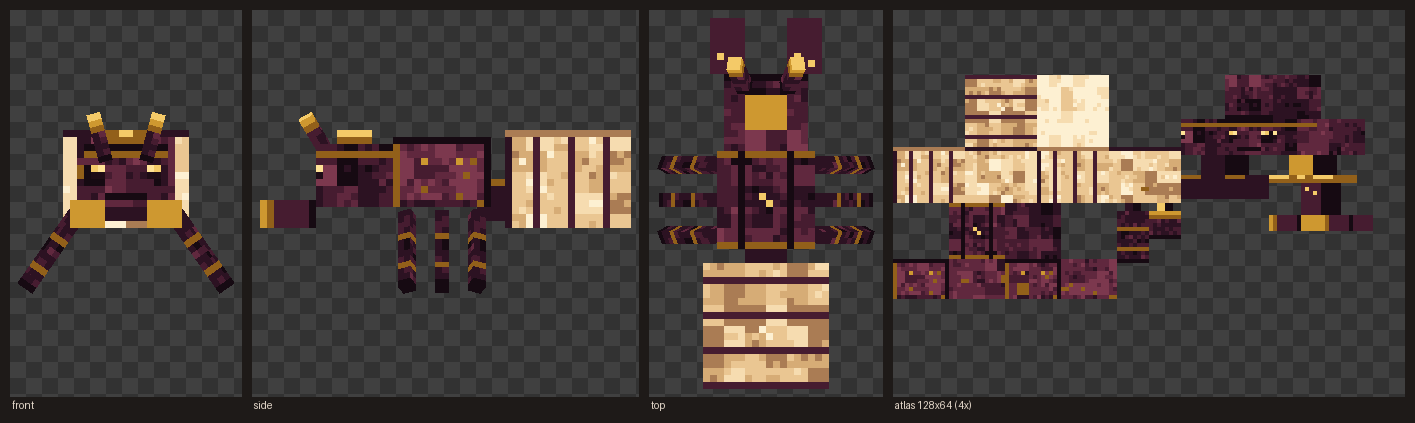
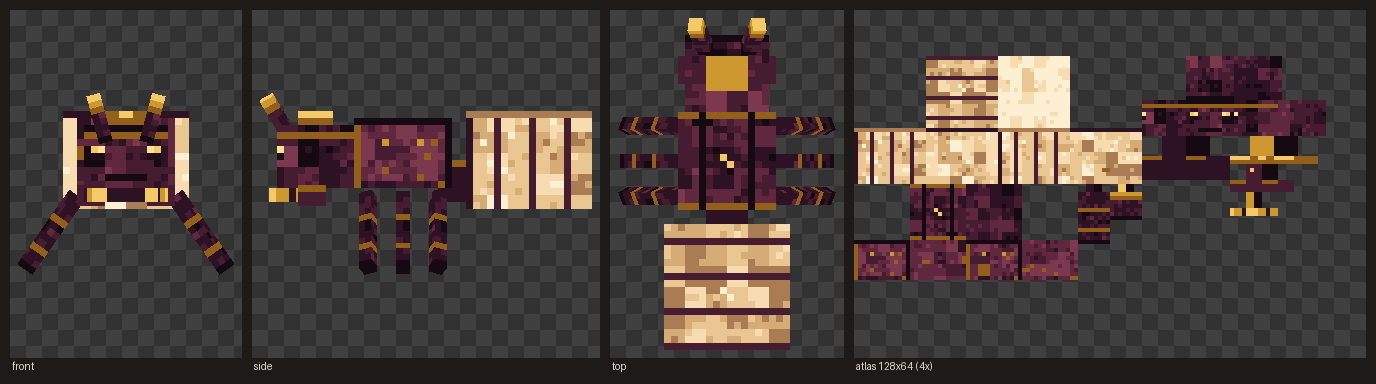
feat(client): queen mandibles, tamed antenna markers, larva UV fix
Owner feedback (play-test round 1, spec items 2-4), all sourced from
assets-src/models.py and committed together because it's a single generator
script -- splitting it across commits would mean hand-reconstructing patch
hunks, a needless risk for one file.

- Queen mandibles: one chunky 5x4x8 slab per side becomes two tapered
  segments (base 4x3x4, tip 2x2x4), both children of `head` in
  QueenAntModel.java to match this file's flat, absolute-pose part list. The
  tip curls toward the midline (QUEEN_MANDIBLE_TIP_ANGLE, ~20 degrees) for a
  pincer silhouette. Texture: plum base with a gold joint accent (matching
  the legs' motif), gold tip brightest at the true biting point.

- Tamed worker/soldier get their own texture atlas, distinguished by a
  royal-jelly gold antenna-tip marker (TAMED_ANTENNA_TIP) instead of each
  caste's wild tip colour -- paint_worker_ant/paint_soldier_ant grew an
  antenna_tip_color parameter rather than forking a second geometry spec, so
  wild output is provably unchanged (worker_ant.png/soldier_ant.png are
  byte-identical to before). TamedWorkerAntRenderer/TamedSoldierAntRenderer
  now point at tamed_worker_ant.png/tamed_soldier_ant.png.

- Larva "stray orange spots" on the side faces: mid/head/tail's west/east
  seam faces are only 2-3 texels deep, and the code painted a full-brightness
  L_LINE seam at BOTH ends of `mid` while head/tail each painted their own
  seam at the identical boundary from their side -- every junction marked
[…]

Changed region(s): [[0.0, 0.0, 1.0, 0.9688]]

diff --git a/assets-src/models.py b/assets-src/models.py
@@ -204,8 +204,9 @@ LARVA = {
 # Atlas is 128x64. Box-UV packing, checked to fit:
 #   gaster   (0,  0)  72x32     thorax  (0, 32)  56x24
 #   head     (72, 0)  46x20     petiole (72,20)  22x11
-#   crest    (94,20)  22x7      mandible(94,27)  26x12
-#   leg      (56,32)   8x15     antenna (64,32)   8x9
+#   crest    (94,20)  22x7      mandible_base (94,27) 16x7
+#   mandible_tip (94,34) 12x6   leg      (56,32)   8x15
+#   antenna  (64,32)   8x9
 #
 # Ground is y=24; her back sits at y=0, i.e. 24px = 1.5 blocks tall, under the
 # 1.8-block hitbox. Feet land at 12 + 13*cos(0.6109) = 22.7, so the splay and
@@ -213,6 +214,18 @@ LARVA = {
 QUEEN_REST_LEG_Z = 0.6109       # 35 degrees off vertical
 QUEEN_REST_LEG_Y_FRONT = -0.4363
 QUEEN_REST_LEG_Y_HIND = 0.4363
+
+# Play-test round 1, spec item 2: the mandibles read "too chunky" -- reworked from one
+# 5x4x8 block per side into two tapered segments (base 4x3x4, tip 2x2x4) so the jaw
+# actually narrows toward the point instead of staying a uniform slab. The tip also
+# curls toward the midline (yRot) for a pincer silhouette; sign is empirical -- verified
+# by rendering the preview and checking the tips converge rather than splay. Both
+# segments stay children of `head`, matching the flat single-level part list every other
+# model here uses (see the module docstring): the base's own rest rotation is the
+# identity, so nesting the tip under `head` directly instead of under the base produces
+# an identical absolute pose while keeping this file's "poses are absolute" invariant
+# intact -- no hierarchical composition to hand-simulate.
+QUEEN_MANDIBLE_TIP_ANGLE = 0.3491   # ~20 degrees
 
 QUEEN_ANT = {
     "name": "queen_ant",
@@ -226,11 +239,19 @@ QUEEN_ANT = {
             {"off": (72, 0), "box": (-6, -4.5, -11, 12, 9, 11)},        # skull
             {"off": (94, 20), "box": (-3, -6.5, -8, 6, 2, 5)},          # crest
         ]},
-        {"name": "mandible_r", "pose": (-3, 12, -18), "cubes": [
-            {"off": (94, 27), "box": (-5, -2, -8, 5, 4, 8)},
+        {"name": "mandible_r_base", "pose": (-3, 12, -11), "cubes": [
+            {"off": (94, 27), "box": (-4, -1.5, -4, 4, 3, 4)},
         ]},
-        {"name": "mandible_l", "pose": (3, 12, -18), "cubes": [
-            {"off": (94, 27), "box": (0, -2, -8, 5, 4, 8)},
+        {"name": "mandible_r_tip", "pose": (-5, 12, -15),
+         "rot": (0, -QUEEN_MANDIBLE_TIP_ANGLE, 0), "cubes": [
+            {"off": (94, 34), "box": (-1, -1, -4, 2, 2, 4)},
+        ]},
+        {"name": "mandible_l_base", "pose": (3, 12, -11), "cubes": [
+            {"off": (94, 27), "box": (0, -1.5, -4, 4, 3, 4)},
+        ]},
+        {"name": "mandible_l_tip", "pose": (5, 12, -15),
+         "rot": (0, QUEEN_MANDIBLE_TIP_ANGLE, 0), "cubes": [
+            {"off": (94, 34), "box": (-1, -1, -4, 2, 2, 4)},
         ]},
         {"name": "antenna_r", "pose": (-3, 4, -16),
          "rot": (REST_ANT_X, 0, -REST_ANT_Z), "cubes": [
@@ -311,6 +332,13 @@ JAW_DARK = (108, 70, 32, 255)
 
 ANTENNA_TIP = (232, 160, 64, 255)
 
+# Play-test round 1, spec item 3: "give tamed worker and tamed soldier their OWN texture
+# files distinguished by a clearly visible colored antenna-TIP marker." Royal-jelly gold
+# -- brighter and more yellow than either wild tip shade above and below (worker's warm
+# amber ANTENNA_TIP, soldier's redder S_ANTENNA_TIP further down), so it reads as a
+# distinct marker rather than a shade variant of the same hue at gameplay distance.
+TAMED_ANTENNA_TIP = (255, 214, 64, 255)
+
 BODY_PAL = [CHITIN_DARK, CHITIN_BASE, CHITIN_MID, CHITIN_LIGHT, CHITIN_PALE]
 BACK_PAL = [CHITIN_DARKEST, CHITIN_DARK, CHITIN_BASE, CHITIN_MID, CHITIN_LIGHT]
 BELLY_PAL = [BELLY_DARK, BELLY, BELLY, BELLY_LIGHT, BELLY_LIGHT]
@@ -366,6 +394,14 @@ L_SHADE = (222, 204, 174, 255)
 L_DARK = (198, 178, 146, 255)
 
 L_LINE = (222, 158, 70, 255)
+# Play-test round 1, spec item 4: "stray orange spots on the larva's SIDE faces." The
+# west/east faces at the mid/head/tail joints are only 2-3 texels deep, so a full-
+# strength L_LINE vband there covers 1/2 to 2/3 of the whole face -- nowhere near the
+# "faint" this palette's own comment above promises, and reads as an orange blotch
+# rather than a seam. L_LINE_FAINT is L_LINE blended 35% into L_BASE (the segment's own
+# base tone) instead of painted at full saturation, so a segment boundary is still
+# visible without dominating a face this small.
+L_LINE_FAINT = (232, 201, 152, 255)
 L_EYE = (60, 40, 24, 255)
 
 L_BODY_PAL = [L_SHADE, L_BASE, L_LIGHT, L_LIGHT, L_PALE]
@@ -461,7 +497,7 @@ def vband(draw, rect, x, color):
         draw.rectangle([x0 + x, y0, x0 + x, y1 - 1], fill=color)
 
 
-def paint_worker_ant():
+def paint_worker_ant(antenna_tip_color=ANTENNA_TIP):
     img = Image.new("RGBA", (TEX, TEX), (0, 0, 0, 0))
     d = ImageDraw.Draw(img)
     parts = {p["name"]: p for p in WORKER_ANT["parts"]}
@@ -548,12 +584,14 @@ def paint_worker_ant():
     px(d, r["top"], 0, 1, JAW_DARK)
 
     # ---- antennae: dark shaft, amber tip (min-Y end is the tip) -----------
+    # `antenna_tip_color` is the tamed-caste hook (spec item 3) -- wild callers don't
+    # pass it and get the amber above.
     r = rects(parts["antenna_r"]["cubes"][0])
     for f in ("west", "north", "east", "south"):
         noise_rect(d, r[f], "antenna:" + f, LIMB_PAL, cell=1)
-        hband(d, r[f], 0, ANTENNA_TIP)
+        hband(d, r[f], 0, antenna_tip_color)
         hband(d, r[f], 2, CHITIN_DARKEST)       # base joint
-    fill(d, r["top"], ANTENNA_TIP)
+    fill(d, r["top"], antenna_tip_color)
     fill(d, r["bottom"], CHITIN_DARKEST)
 
     # ---- legs: dark chitin, lit joint band, near-black foot ---------------
@@ -568,7 +606,7 @@ def paint_worker_ant():
     return img
 
 
-def paint_soldier_ant():
+def paint_soldier_ant(antenna_tip_color=S_ANTENNA_TIP):
     img = Image.new("RGBA", (SOLDIER_TEX_W, SOLDIER_TEX_H), (0, 0, 0, 0))
     d = ImageDraw.Draw(img)
     parts = {p["name"]: p for p in SOLDIER_ANT["parts"]}
@@ -657,12 +695,14 @@ def paint_soldier_ant():
     px(d, r["top"], 0, 1, S_JAW_DARK)
 
     # ---- antennae: dark shaft, redder tip (min-Y end is the tip) -----------
+    # `antenna_tip_color` is the tamed-caste hook (spec item 3) -- wild callers don't
+    # pass it and get the maroon-red S_ANTENNA_TIP above.
     r = rects(parts["antenna_r"]["cubes"][0])
     for f in ("west", "north", "east", "south"):
         noise_rect(d, r[f], "antenna:" + f, S_LIMB_PAL, cell=1, namespace=NS)
-        hband(d, r[f], 0, S_ANTENNA_TIP)
+        hband(d, r[f], 0, antenna_tip_color)
         hband(d, r[f], 2, S_CHITIN_DARKEST)     # base joint
-    fill(d, r["top"], S_ANTENNA_TIP)
+    fill(d, r["top"], antenna_tip_color)
     fill(d, r["bottom"], S_CHITIN_DARKEST)
 
     # ---- legs: dark chitin, lit joint band, near-black foot ---------------
@@ -688,15 +728,19 @@ def paint_larva():
         _, _, _, w, h, dd = cube["box"]
         return face_rects(u, v, w, h, dd)
 
-    # ---- mid: the widest segment, pale cream with a faint seam each end ----
+    # ---- mid: the widest segment, pale cream -------------------------------
+    # Play-test round 1, spec item 4: mid used to paint its OWN seam at both its front
+    # (against head) and back (against tail) edge, on top of head's and tail's each
+    # painting their own seam at that identical boundary -- every junction got marked
+    # twice. On a face this thin (3 texels wide) two full-brightness L_LINE columns left
+    # only the single middle column unpainted, which is what read as "stray orange
+    # spots" rather than a seam. Mid no longer paints a seam of its own; the boundary is
+    # still marked once, by head/tail below, in the softened L_LINE_FAINT.
     r = rects(parts["mid"]["cubes"][0])
     for f in ("west", "north", "east", "south"):
         noise_rect(d, r[f], "mid:" + f, L_BODY_PAL, namespace=NS, jitter=0.14, cell=1)
     noise_rect(d, r["top"], "mid:top", L_TOP_PAL, namespace=NS, jitter=0.14, cell=1)
     noise_rect(d, r["bottom"], "mid:bottom", L_BOTTOM_PAL, namespace=NS, jitter=0.14, cell=1)
-    for f in ("west", "east"):
-        vband(d, r[f], 0, L_LINE)               # seam against the head (front)
-        vband(d, r[f], 2, L_LINE)               # seam against the tail (back)
 
     # ---- head: tapered, carries the two eye dots ---------------------------
     r = rects(parts["head"]["cubes"][0])
@@ -708,7 +752,7 @@ def paint_larva():
     px(d, n, 0, 1, L_EYE)
     px(d, n, 2, 1, L_EYE)
     for f in ("west", "east"):
-        vband(d, r[f], 1, L_LINE)               # seam against mid
+        vband(d, r[f], 1, L_LINE_FAINT)         # seam against mid
 
     # ---- tail: shorter and thinner, tapering down --------------------------
     r = rects(parts["tail"]["cubes"][0])
@@ -717,7 +761,7 @@ def paint_larva():
     noise_rect(d, r["top"], "tail:top", L_TOP_PAL, namespace=NS, jitter=0.14, cell=1)
     noise_rect(d, r["bottom"], "tail:bottom", L_BOTTOM_PAL, namespace=NS, jitter=0.14, cell=1)
     for f in ("west", "east"):
-        vband(d, r[f], 0, L_LINE)               # seam against mid
+        vband(d, r[f], 0, L_LINE_FAINT)         # seam against mid
 
     return img
 
@@ -817,18 +861,24 @@ def paint_queen_ant():
     px(d, r["north"], 2, 0, Q_GOLD_BRIGHT)
     px(d, r["north"], 3, 0, Q_GOLD_BRIGHT)
 
-    # ---- mandibles: plum base, gold biting tip -----------------------------
-    r = rects(parts["mandible_r"]["cubes"][0])
+    # ---- mandibles: plum base with a gold joint accent, then a slimmer gold ------
+    # ---- tip that carries the biting point (play-test round 1, spec item 2) ------
+    r = rects(parts["mandible_r_base"]["cubes"][0])
     for f in ("west", "north", "east", "south", "top"):
         fill(d, r[f], Q_PLUM_BASE)
     fill(d, r["bottom"], Q_PLUM_DARKEST)
-    fill(d, r["north"], Q_GOLD)                  # the -Z face is the biting tip
     for f in ("west", "east"):
-        vband(d, r[f], 0, Q_GOLD)
-        vband(d, r[f], 1, Q_GOLD_DEEP)
-        vband(d, r[f], 7, Q_PLUM_DARKEST)
+        hband(d, r[f], 0, Q_GOLD_DEEP)            # joint accent, same motif as the legs
     px(d, r["top"], 1, 1, Q_GOLD_BRIGHT)
-    px(d, r["top"], 3, 2, Q_GOLD_BRIGHT)
+
+    r = rects(parts["mandible_r_tip"]["cubes"][0])
+    for f in ("west", "north", "east", "south", "top"):
+        fill(d, r[f], Q_GOLD)
+    fill(d, r["bottom"], Q_PLUM_DARKEST)
+    fill(d, r["north"], Q_GOLD_BRIGHT)            # the -Z face is the true biting point
+    for f in ("west", "east"):
+        vband(d, r[f], 0, Q_GOLD_BRIGHT)          # brightest right at the point
+        vband(d, r[f], 3, Q_PLUM_DARK)            # dims back toward the base joint
 
     # ---- antennae: dark shaft, gold tip (min-Y end is the tip) -------------
     r = rects(parts["antenna_r"]["cubes"][0])
@@ -1005,9 +1055,27 @@ def contact_sheet(views, tex, atlas_scale=4):
     return sheet
 
 
+# Play-test round 1, spec item 3: tamed worker/soldier get their own atlas -- same
+# geometry (a shallow copy of the wild spec with just `name` overridden, so the
+# preview/atlas-writing code below keys off the right filename), repainted with
+# TAMED_ANTENNA_TIP instead of each caste's wild tip colour.
+TAMED_WORKER_ANT = dict(WORKER_ANT, name="tamed_worker_ant")
+TAMED_SOLDIER_ANT = dict(SOLDIER_ANT, name="tamed_soldier_ant")
+
+
+def paint_tamed_worker_ant():
+    return paint_worker_ant(antenna_tip_color=TAMED_ANTENNA_TIP)
+
+
+def paint_tamed_soldier_ant():
+    return paint_soldier_ant(antenna_tip_color=TAMED_ANTENNA_TIP)
+
+
 MODELS = [
     (WORKER_ANT, paint_worker_ant),
+    (TAMED_WORKER_ANT, paint_tamed_worker_ant),
     (SOLDIER_ANT, paint_soldier_ant),
+    (TAMED_SOLDIER_ANT, paint_tamed_soldier_ant),
     (LARVA, paint_larva),
     (QUEEN_ANT, paint_queen_ant),
 ]

diff --git a/src/main/java/com/nogal/formicary/client/model/QueenAntModel.java b/src/main/java/com/nogal/formicary/client/model/QueenAntModel.java
@@ -41,6 +41,15 @@ public class QueenAntModel<T extends Entity> extends EntityModel<T> {
     private static final float REST_ANTENNA_X = 0.5236F;
     private static final float REST_ANTENNA_Z = 0.2618F;
 
+    /**
+     * Play-test round 1, spec item 2: "rework to slimmer, tapered mandibles (e.g. two
+     * thinner angled segments per side)." The tip curls toward the midline by this much;
+     * sign is per-side (see {@link #createBodyLayer}). Matches
+     * {@code assets-src/models.py}'s {@code QUEEN_MANDIBLE_TIP_ANGLE} exactly -- that file
+     * is the source of truth, this is the hand translation.
+     */
+    private static final float MANDIBLE_TIP_ANGLE = 0.3491F;
+
     /** The gaster's rest offset under {@code body}; the idle pulse is written around it. */
     private static final float GASTER_REST_Y = -2.0F;
 
@@ -48,8 +57,10 @@ public class QueenAntModel<T extends Entity> extends EntityModel<T> {
 
     private final ModelPart body;
     public final ModelPart head;
-    private final ModelPart mandibleRight;
-    private final ModelPart mandibleLeft;
+    private final ModelPart mandibleBaseRight;
+    private final ModelPart mandibleTipRight;
+    private final ModelPart mandibleBaseLeft;
+    private final ModelPart mandibleTipLeft;
     private final ModelPart antennaRight;
     private final ModelPart antennaLeft;
     private final ModelPart gaster;
@@ -72,8 +83,10 @@ public class QueenAntModel<T extends Entity> extends EntityModel<T> {
     public QueenAntModel(ModelPart root) {
         this.body = root.getChild("body");
         this.head = this.body.getChild("head");
-        this.mandibleRight = this.head.getChild("mandible_r");
-        this.mandibleLeft = this.head.getChild("mandible_l");
+        this.mandibleBaseRight = this.head.getChild("mandible_r_base");
+        this.mandibleTipRight = this.head.getChild("mandible_r_tip");
+        this.mandibleBaseLeft = this.head.getChild("mandible_l_base");
+        this.mandibleTipLeft = this.head.getChild("mandible_l_tip");
         this.antennaRight = this.head.getChild("antenna_r");
         this.antennaLeft = this.head.getChild("antenna_l");
         this.gaster = this.body.getChild("gaster");
@@ -102,15 +115,31 @@ public class QueenAntModel<T extends Entity> extends EntityModel<T> {
                         .texOffs(94, 20).addBox(-3.0F, -6.5F, -8.0F, 6.0F, 2.0F, 5.0F, new CubeDeformation(0.0F)),
                 PartPose.offset(0.0F, 0.5F, -7.0F));
 
-        head.addOrReplaceChild("mandible_r",
+        // Play-test round 1, spec item 2: two tapered segments per side instead of one
+        // uniform 5x4x8 slab. Both stay children of `head` (not nested tip-under-base)
+        // so their rest pose is a direct hand translation of the python spec's flat,
+        // absolute-pose part list -- see QueenAntModel's class javadoc and
+        // assets-src/models.py's QUEEN_MANDIBLE_TIP_ANGLE comment. setupAnim flexes both
+        // segments of a side by the same angle, so they move together as a rigid unit.
+        head.addOrReplaceChild("mandible_r_base",
                 CubeListBuilder.create()
-                        .texOffs(94, 27).addBox(-5.0F, -2.0F, -8.0F, 5.0F, 4.0F, 8.0F, new CubeDeformation(0.0F)),
-                PartPose.offset(-3.0F, 5.5F, -11.0F));
+                        .texOffs(94, 27).addBox(-4.0F, -1.5F, -4.0F, 4.0F, 3.0F, 4.0F, new CubeDeformation(0.0F)),
+                PartPose.offset(-3.0F, 5.5F, -4.0F));
 
-        head.addOrReplaceChild("mandible_l",
+        head.addOrReplaceChild("mandible_r_tip",
                 CubeListBuilder.create()
-                        .texOffs(94, 27).mirror().addBox(0.0F, -2.0F, -8.0F, 5.0F, 4.0F, 8.0F, new CubeDeformation(0.0F)).mirror(false),
-                PartPose.offset(3.0F, 5.5F, -11.0F));
+                        .texOffs(94, 34).addBox(-1.0F, -1.0F, -4.0F, 2.0F, 2.0F, 4.0F, new CubeDeformation(0.0F)),
+                PartPose.offsetAndRotation(-5.0F, 5.5F, -8.0F, 0.0F, -MANDIBLE_TIP_ANGLE, 0.0F));
+
+        head.addOrReplaceChild("mandible_l_base",
+                CubeListBuilder.create()
+                        .texOffs(94, 27).mirror().addBox(0.0F, -1.5F, -4.0F, 4.0F, 3.0F, 4.0F, new CubeDeformation(0.0F)).mirror(false),
+                PartPose.offset(3.0F, 5.5F, -4.0F));
+
+        head.addOrReplaceChild("mandible_l_tip",
+                CubeListBuilder.create()
+                        .texOffs(94, 34).mirror().addBox(-1.0F, -1.0F, -4.0F, 2.0F, 2.0F, 4.0F, new CubeDeformation(0.0F)).mirror(false),
+                PartPose.offsetAndRotation(5.0F, 5.5F, -8.0F, 0.0F, MANDIBLE_TIP_ANGLE, 0.0F));
 
         head.addOrReplaceChild("antenna_r",
                 CubeListBuilder.create()
@@ -164,10 +193,15 @@ public class QueenAntModel<T extends Entity> extends EntityModel<T> {
         this.antennaLeft.xRot = REST_ANTENNA_X - bob;
         this.antennaLeft.zRot = REST_ANTENNA_Z + sway;
 
-        // Mandibles work slowly and wide -- she is not in a hurry.
+        // Mandibles work slowly and wide -- she is not in a hurry. Both segments of a
+        // side get the same flex added on top of their own rest yRot (the tip's rest
+        // already carries MANDIBLE_TIP_ANGLE), so base and tip swing together as one
+        // rigid jaw instead of the tip lagging or drifting apart from the base.
         float mandibleFlex = Mth.sin(ageInTicks * 0.035F) * 0.09F;
-        this.mandibleRight.yRot = -mandibleFlex;
-        this.mandibleLeft.yRot = mandibleFlex;
+        this.mandibleBaseRight.yRot = -mandibleFlex;
+        this.mandibleTipRight.yRot = -MANDIBLE_TIP_ANGLE - mandibleFlex;
+        this.mandibleBaseLeft.yRot = mandibleFlex;
+        this.mandibleTipLeft.yRot = MANDIBLE_TIP_ANGLE + mandibleFlex;
 
         // The idle the spec asks for: the gaster breathes, laying eggs even at rest. A
         // translation rather than a scale, because ModelPart has no scale of its own and

diff --git a/src/main/java/com/nogal/formicary/client/renderer/TamedWorkerAntRenderer.java b/src/main/java/com/nogal/formicary/client/renderer/TamedWorkerAntRenderer.java
@@ -9,15 +9,20 @@ import net.minecraft.client.renderer.entity.MobRenderer;
 import net.minecraft.resources.ResourceLocation;
 
 /**
- * The tamed worker reuses the wild worker's baked model and texture -- it is the same
- * animal, just yours. {@code WorkerAntModel} is generic over the entity type, so the layer
- * definition registered for the wild worker bakes for this renderer too and no second mesh
- * or atlas is needed.
+ * The tamed worker reuses the wild worker's baked model -- it is the same animal, just
+ * yours. {@code WorkerAntModel} is generic over the entity type, so the layer definition
+ * registered for the wild worker bakes for this renderer too and no second mesh is needed.
+ *
+ * <p>Play-test round 1, spec item 3: the owner wants tamed ants visibly distinguishable
+ * from wild ones, so this renderer now points at its own atlas ({@link #TEXTURE}) rather
+ * than the wild worker's -- same geometry/UV layout, painted with a gold antenna-tip
+ * marker in place of the wild amber. See {@code assets-src/models.py}'s
+ * {@code TAMED_ANTENNA_TIP}.
  */
 public class TamedWorkerAntRenderer
         extends MobRenderer<TamedWorkerAntEntity, WorkerAntModel<TamedWorkerAntEntity>> {
     private static final ResourceLocation TEXTURE =
-            ResourceLocation.fromNamespaceAndPath(Formicary.MODID, "textures/entity/worker_ant.png");
+            ResourceLocation.fromNamespaceAndPath(Formicary.MODID, "textures/entity/tamed_worker_ant.png");
 
     public TamedWorkerAntRenderer(EntityRendererProvider.Context context) {
         super(context, new WorkerAntModel<>(context.bakeLayer(WorkerAntModel.LAYER_LOCATION)), 0.4F);
